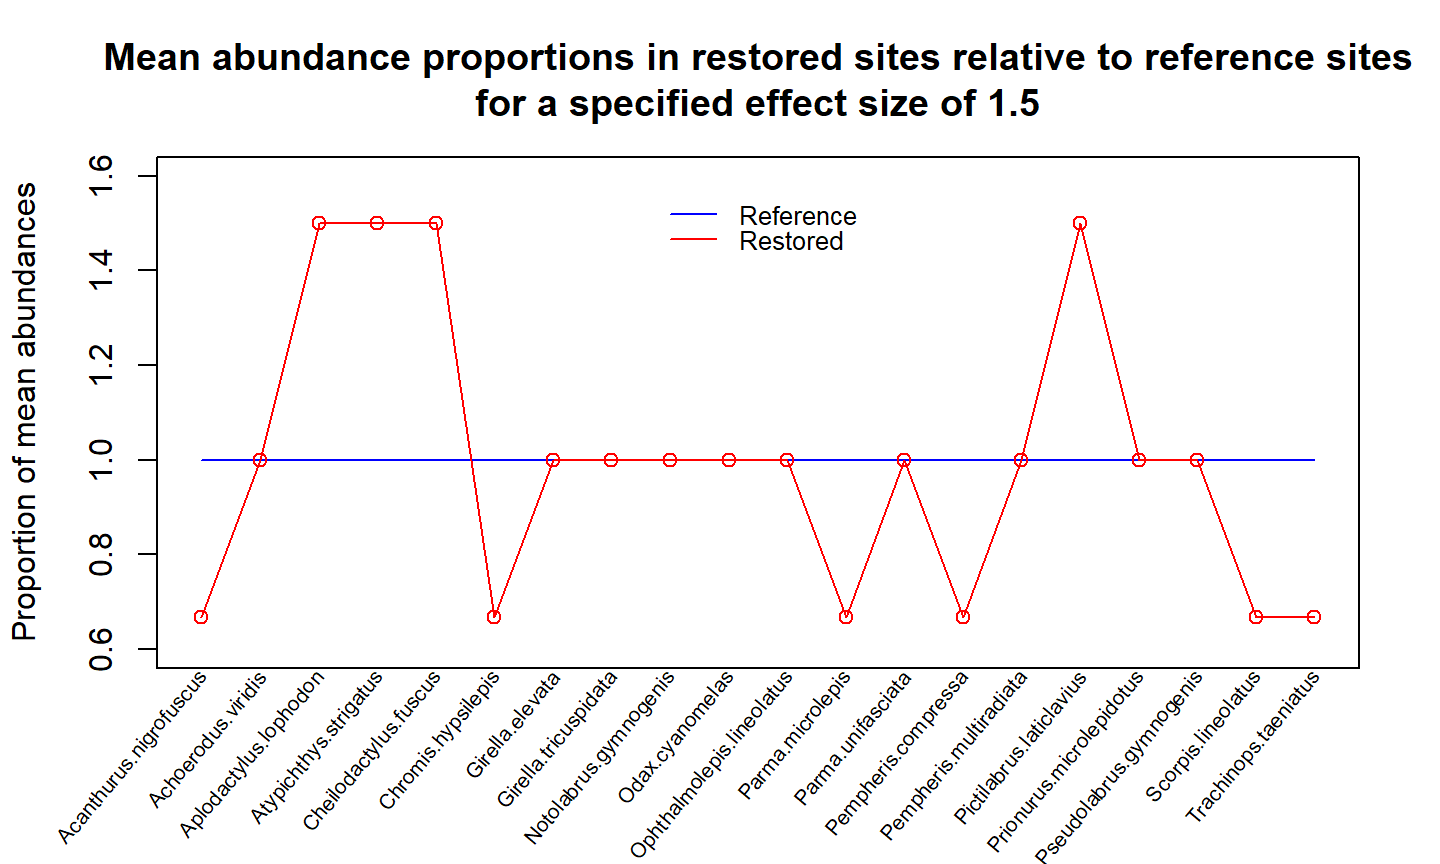
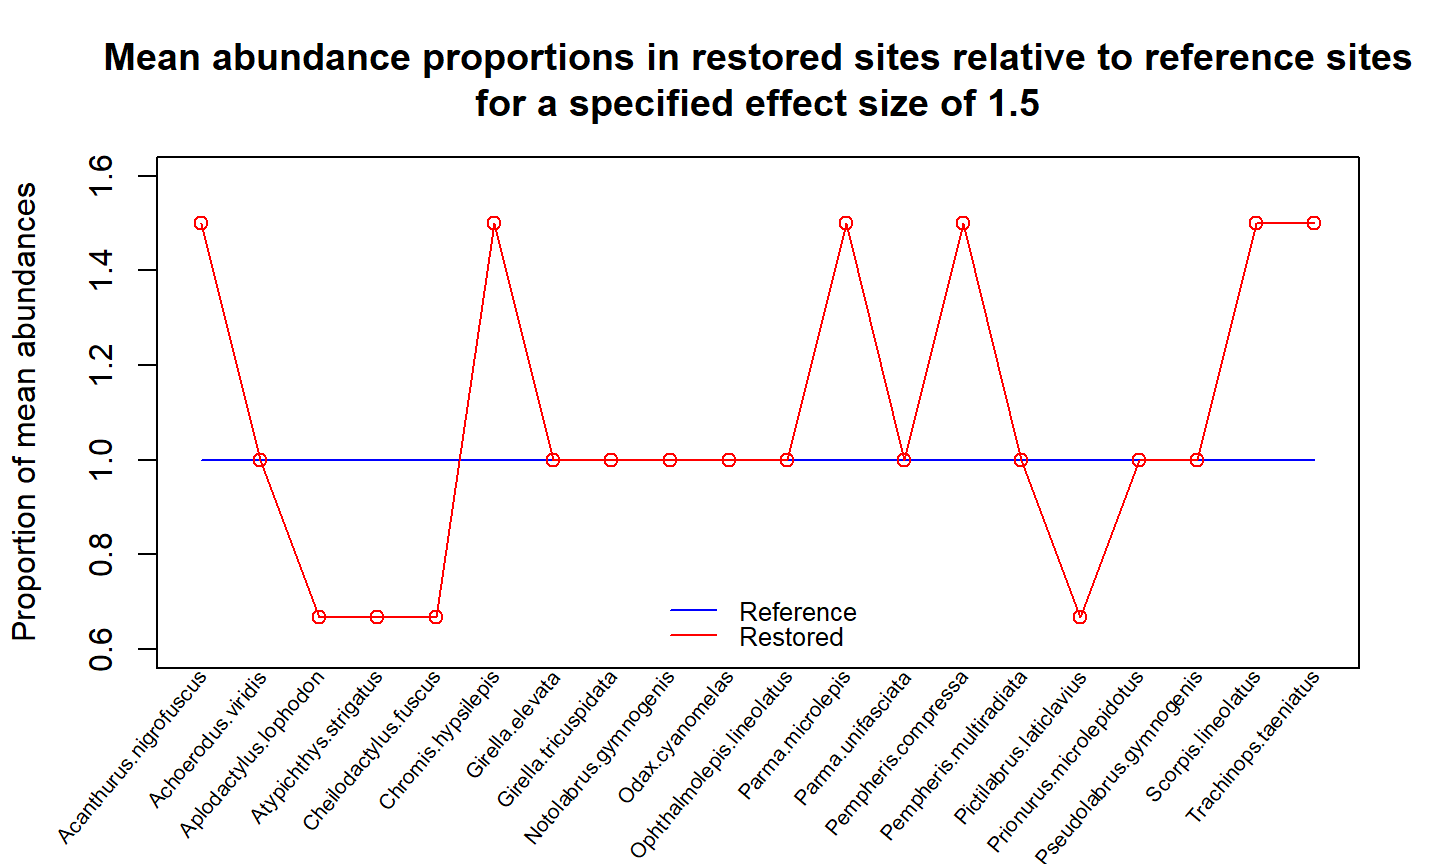
rm unnecessary code and slide files

diff --git a/code.html b/code.html
@@ -13,7 +13,7 @@
 
 <title>Equivalence testing</title>
 
-<script src="site_libs/header-attrs-2.7/header-attrs.js"></script>
+<script src="site_libs/header-attrs-2.8/header-attrs.js"></script>
 <script src="site_libs/jquery-1.11.3/jquery.min.js"></script>
 <meta name="viewport" content="width=device-width, initial-scale=1" />
 <link href="site_libs/bootstrap-3.3.5/css/paper.min.css" rel="stylesheet" />
@@ -303,12 +303,12 @@ div.tocify {
 
 <!-- setup 3col/9col grid for toc_float and main content  -->
 <div class="row">
-<div class="col-sm-12 col-md-4 col-lg-3">
+<div class="col-xs-12 col-sm-4 col-md-3">
 <div id="TOC" class="tocify">
 </div>
 </div>
 
-<div class="toc-content col-sm-12 col-md-8 col-lg-9">
+<div class="toc-content col-xs-12 col-sm-8 col-md-9">
 
 
 
@@ -566,19 +566,19 @@ head(data)</code></pre>
 <pre class="r"><code>fit.cord = cord(fit)</code></pre>
 <p>Specify the increasers and decreasers.</p>
 <pre class="r"><code>increasers = c(
-  &#39;Aplodactylus.lophodon&#39;, &#39;Atypichthys.strigatus&#39;, &#39;Cheilodactylus.fuscus&#39;,
-  &#39;Pictilabrus.laticlavius&#39;
+  &#39;Acanthurus.nigrofuscus&#39;, &#39;Chromis.hypsilepis&#39;, &#39;Parma.microlepis&#39;,
+  &#39;Pempheris.compressa&#39;, &#39;Scorpis.lineolatus&#39;, &#39;Trachinops.taeniatus&#39;
 )
 
 decreasers = c(
-  &#39;Acanthurus.nigrofuscus&#39;, &#39;Chromis.hypsilepis&#39;, &#39;Parma.microlepis&#39;,
-  &#39;Pempheris.compressa&#39;, &#39;Scorpis.lineolatus&#39;, &#39;Trachinops.taeniatus&#39;
+  &#39;Aplodactylus.lophodon&#39;, &#39;Atypichthys.strigatus&#39;, &#39;Cheilodactylus.fuscus&#39;,
+  &#39;Pictilabrus.laticlavius&#39;
 )</code></pre>
 <p>Generate matrix of effect sizes based on effect size of interest.</p>
 <pre class="r"><code>effect_mat = effect_alt(fit, effect_size=1.5, increasers, decreasers, term=&#39;treatment&#39;)</code></pre>
 <p>Perform a multivariate equivalence test.</p>
 <pre class="r"><code>equivtest(fit.cord, coeffs=effect_mat)</code></pre>
-<pre><code>## Time elapsed: 0 hr 0 min 25 sec</code></pre>
+<pre><code>## Time elapsed: 0 hr 0 min 28 sec</code></pre>
 <pre><code>## Equivalence Test Table
 ## 
 ## object0: abund ~ time
@@ -587,7 +587,7 @@ decreasers = c(
 ## Multivariate test:
 ##         Res.Df Df.diff   Dev Pr(&gt;Dev)
 ## object0     20                       
-## object      19       1 80.45    0.999
+## object      19       1 80.45    0.997
 ## Arguments:
 ##  Test statistics calculated assuming uncorrelated response (for faster computation) 
 ## P-value calculated using 999 Monte Carlo samples from a factor analytic Gaussian copula 
@@ -666,13 +666,13 @@ fit.cord = cord(fit)
 
 # Specify the increasers and decreasers
 increasers = c(
-  &#39;Aplodactylus.lophodon&#39;, &#39;Atypichthys.strigatus&#39;, &#39;Cheilodactylus.fuscus&#39;,
-  &#39;Pictilabrus.laticlavius&#39;
+  &#39;Acanthurus.nigrofuscus&#39;, &#39;Chromis.hypsilepis&#39;, &#39;Parma.microlepis&#39;,
+  &#39;Pempheris.compressa&#39;, &#39;Scorpis.lineolatus&#39;, &#39;Trachinops.taeniatus&#39;
 )
 
 decreasers = c(
-  &#39;Acanthurus.nigrofuscus&#39;, &#39;Chromis.hypsilepis&#39;, &#39;Parma.microlepis&#39;,
-  &#39;Pempheris.compressa&#39;, &#39;Scorpis.lineolatus&#39;, &#39;Trachinops.taeniatus&#39;
+  &#39;Aplodactylus.lophodon&#39;, &#39;Atypichthys.strigatus&#39;, &#39;Cheilodactylus.fuscus&#39;,
+  &#39;Pictilabrus.laticlavius&#39;
 )
 
 # Generate matrix of effect sizes based on effect size of interest

diff --git a/slides.html b/slides.html
@@ -32,7 +32,7 @@
     };
   </script>
 
-  <script src="site_libs/header-attrs-2.7/header-attrs.js"></script>
+  <script src="site_libs/header-attrs-2.8/header-attrs.js"></script>
   <link href="site_libs/ioslides-13.5.1/fonts/fonts.css" rel="stylesheet" />
   <link href="site_libs/ioslides-13.5.1/theme/css/default.css" rel="stylesheet" />
   <link href="site_libs/ioslides-13.5.1/theme/css/phone.css" rel="stylesheet" />
@@ -561,13 +561,13 @@ Copula models have two steps:
 </article></slide><slide class=""><hgroup><h2>Multivariate equivalence testing </h2><h3> Specifying the effect</h3></hgroup><article  id="multivariate-equivalence-testing-specifying-the-effect-1">
 
 <pre class = 'prettyprint lang-r'>increasers = c(
-  &#39;Aplodactylus.lophodon&#39;, &#39;Atypichthys.strigatus&#39;, &#39;Cheilodactylus.fuscus&#39;,
-  &#39;Pictilabrus.laticlavius&#39;
+  &#39;Acanthurus.nigrofuscus&#39;, &#39;Chromis.hypsilepis&#39;, &#39;Parma.microlepis&#39;,
+  &#39;Pempheris.compressa&#39;, &#39;Scorpis.lineolatus&#39;, &#39;Trachinops.taeniatus&#39;
 )
 
 decreasers = c(
-  &#39;Acanthurus.nigrofuscus&#39;, &#39;Chromis.hypsilepis&#39;, &#39;Parma.microlepis&#39;,
-  &#39;Pempheris.compressa&#39;, &#39;Scorpis.lineolatus&#39;, &#39;Trachinops.taeniatus&#39;
+  &#39;Aplodactylus.lophodon&#39;, &#39;Atypichthys.strigatus&#39;, &#39;Cheilodactylus.fuscus&#39;,
+  &#39;Pictilabrus.laticlavius&#39;
 )
 
 effect_mat = effect_alt(fit, effect_size=1.5, increasers, decreasers, term=&#39;treatment&#39;)</pre>
@@ -576,7 +576,7 @@ effect_mat = effect_alt(fit, effect_size=1.5, increasers, decreasers, term=&#39;
 
 <pre class = 'prettyprint lang-r'>equivtest(fit.cord, coeffs=effect_mat)</pre>
 
-<pre >## Time elapsed: 0 hr 0 min 25 sec</pre>
+<pre >## Time elapsed: 0 hr 0 min 28 sec</pre>
 
 <pre >## Equivalence Test Table
 ## 
@@ -586,7 +586,7 @@ effect_mat = effect_alt(fit, effect_size=1.5, increasers, decreasers, term=&#39;
 ## Multivariate test:
 ##         Res.Df Df.diff   Dev Pr(&gt;Dev)
 ## object0     20                       
-## object      19       1 80.45    0.999
+## object      19       1 80.45    0.998
 ## Arguments:
 ##  Test statistics calculated assuming uncorrelated response (for faster computation) 
 ## P-value calculated using 999 Monte Carlo samples from a factor analytic Gaussian copula 

diff --git a/site_libs/navigation-1.1/codefolding.js b/site_libs/navigation-1.1/codefolding.js
@@ -23,7 +23,6 @@ window.initializeCodeFolding = function(show) {
     // create a collapsable div to wrap the code in
     var div = $('<div class="collapse r-code-collapse"></div>');
     var showThis = (show || $(this).hasClass('fold-show')) && !$(this).hasClass('fold-hide');
-    if (showThis) div.collapse('show');
     var id = 'rcode-643E0F36' + currentIndex++;
     div.attr('id', id);
     $(this).before(div);
@@ -47,13 +46,27 @@ window.initializeCodeFolding = function(show) {
 
     div.before(buttonRow);
 
+    // show the div if necessary
+    if (showThis) div.collapse('show');
+
     // update state of button on show/hide
-    div.on('hidden.bs.collapse', function () {
+    //   * Change text
+    //   * add a class for intermediate states styling
+    div.on('hide.bs.collapse', function () {
       showCodeText.text('Code');
+      showCodeButton.addClass('btn-collapsing');
+    });
+    div.on('hidden.bs.collapse', function () {
+      showCodeButton.removeClass('btn-collapsing');
     });
     div.on('show.bs.collapse', function () {
       showCodeText.text('Hide');
+      showCodeButton.addClass('btn-expanding');
     });
+    div.on('shown.bs.collapse', function () {
+      showCodeButton.removeClass('btn-expanding');
+    });
+
   });
 
 }

diff --git a/index.html b/index.html
@@ -9,12 +9,12 @@
 <meta http-equiv="X-UA-Compatible" content="IE=EDGE" />
 
 
-<meta name="author" content="Michelle Lim for Eco-Stats Lab, May 2021" />
+<meta name="author" content="Michelle Lim for Eco-Stats Lab, 14 May 2021" />
 
 
 <title>Equivalence testing - is there evidence of similarity?</title>
 
-<script src="site_libs/header-attrs-2.7/header-attrs.js"></script>
+<script src="site_libs/header-attrs-2.8/header-attrs.js"></script>
 <script src="site_libs/jquery-1.11.3/jquery.min.js"></script>
 <meta name="viewport" content="width=device-width, initial-scale=1" />
 <link href="site_libs/bootstrap-3.3.5/css/paper.min.css" rel="stylesheet" />
@@ -280,7 +280,7 @@ $(document).ready(function () {
 
 
 <h1 class="title toc-ignore">Equivalence testing - is there evidence of similarity?</h1>
-<h4 class="author"><a href="https://github.com/lsjmichelle" target="_blank">Michelle Lim</a> for <a href="http://eco-stats.blogspot.com/" target="_blank">Eco-Stats Lab</a>, May 2021</h4>
+<h4 class="author"><a href="https://github.com/lsjmichelle" target="_blank">Michelle Lim</a> for <a href="http://eco-stats.blogspot.com/" target="_blank">Eco-Stats Lab</a>, 14 May 2021</h4>
 
 </div>
 
